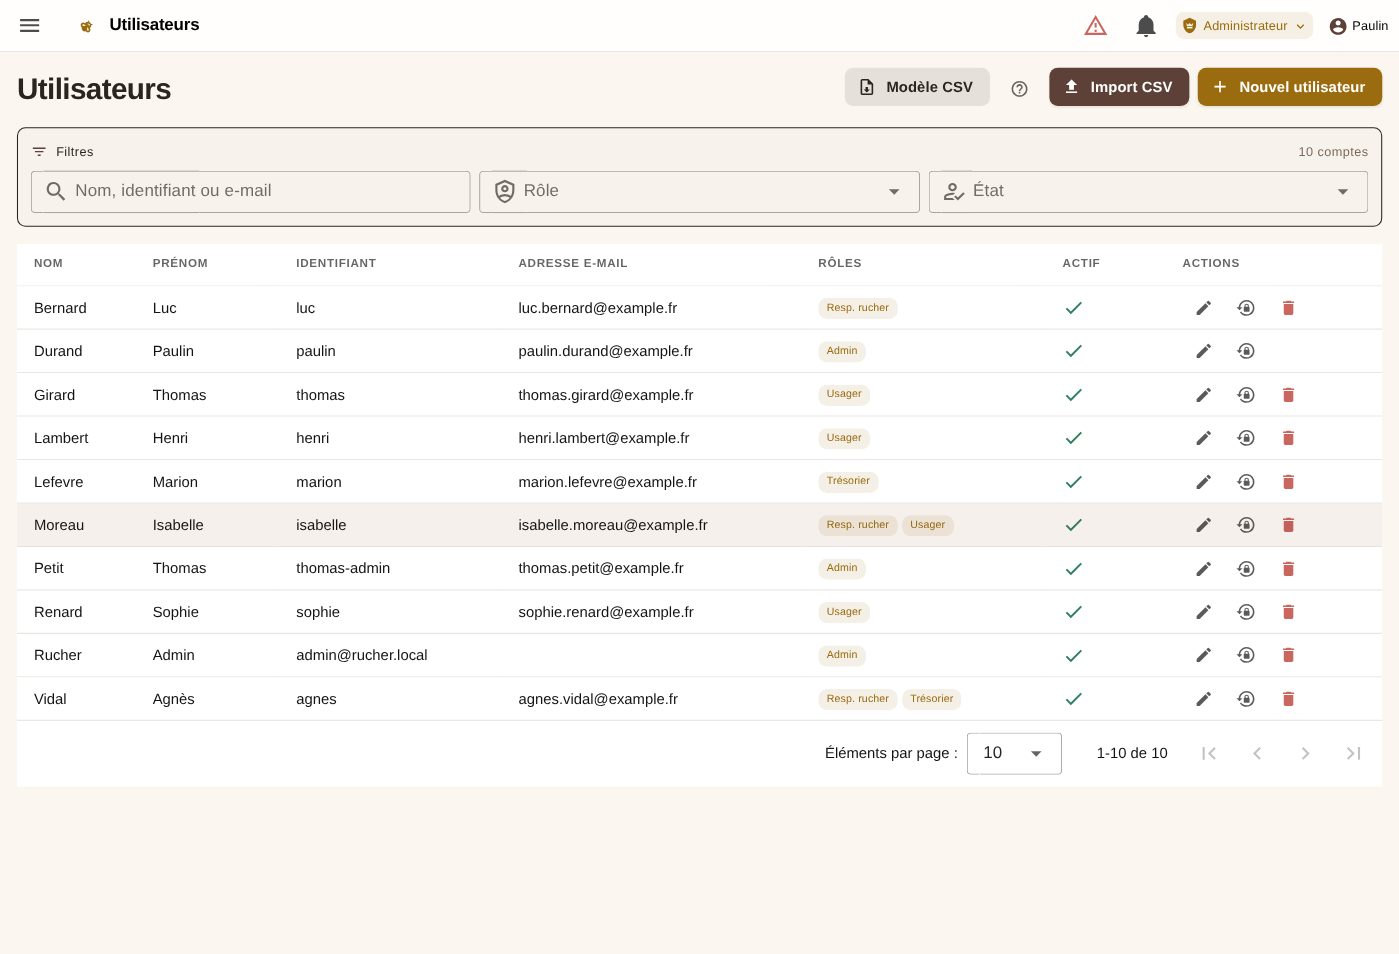
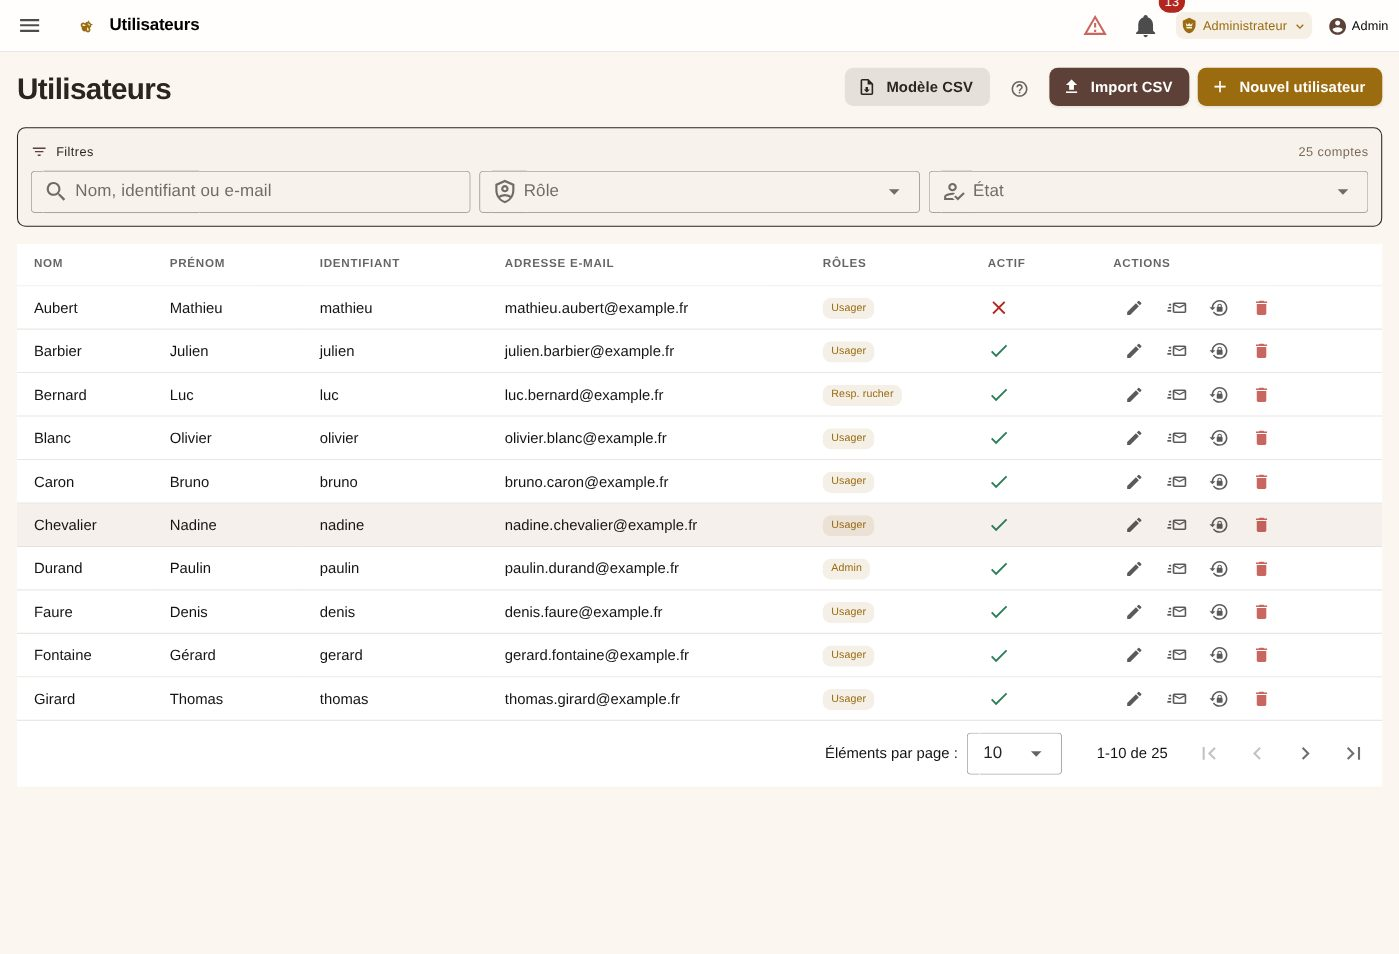
Envoyer ses identifiants et le lien de l'application à un adhérent
« Je n'arrive plus à me connecter » était traité en trois temps :
réinitialiser le mot de passe, le noter, puis rédiger un e-mail à la main
en retrouvant l'adresse du site. Un bouton « enveloppe » sur l'écran
Utilisateurs fait le tout d'un clic — les autres actions de la ligne
restent en place.

Le mot de passe est stocké sous forme d'empreinte Argon2 : celui que la
personne avait choisi est illisible, y compris pour un administrateur.
L'e-mail contient donc un nouveau mot de passe provisoire ; la boîte de
dialogue le dit avant l'envoi, et prévient que les appareils seront
déconnectés.

L'ordre des opérations compte : l'e-mail part d'abord, le mot de passe
n'est enregistré qu'ensuite. Si le serveur de messagerie refuse le
message, le compte garde son mot de passe actuel plutôt que de se
retrouver avec un mot de passe que personne n'a reçu.

Le bouton reste visible mais inactif quand le compte n'a pas d'adresse,
et dit pourquoi ; les réglages manquants (SMTP, adresse de
l'application) renvoient un message qui nomme l'écran à compléter.
Documenté au chapitre 6 du guide, avec les cas d'échec.

Claude-Session: https://claude.ai/code/session_01Cjb3j3YXGNGFMCv5gLZbMm

diff --git a/frontend/src/views/UsersView.vue b/frontend/src/views/UsersView.vue
@@ -66,6 +66,19 @@
       </template>
       <template v-slot:item.actions="{ item }">
         <v-btn icon size="small" variant="text" @click="editUser(item)"><v-icon>mdi-pencil</v-icon></v-btn>
+        <!-- Envoi des identifiants : sans adresse enregistrée, le bouton reste
+             visible mais inactif, et dit pourquoi — le masquer laisserait
+             chercher une fonction qui existe pourtant. -->
+        <v-btn
+          icon size="small" variant="text"
+          :disabled="!item.contact_email"
+          :title="item.contact_email
+            ? `Envoyer ses identifiants et le lien de l'application à ${item.contact_email}`
+            : 'Aucune adresse e-mail enregistrée sur ce compte'"
+          @click="askSendCredentials(item)"
+        >
+          <v-icon>mdi-email-fast-outline</v-icon>
+        </v-btn>
         <v-btn icon size="small" variant="text" @click="resetPw(item)"><v-icon>mdi-lock-reset</v-icon></v-btn>
         <v-btn v-if="item.id !== auth.user?.id" icon size="small" variant="text" color="error" @click="askDelete(item)"><v-icon>mdi-delete</v-icon></v-btn>
       </template>
@@ -176,6 +189,44 @@
       </v-card>
     </v-dialog>
 
+    <!-- Dialog : envoi des identifiants par e-mail -->
+    <v-dialog v-model="showCredDialog" max-width="500">
+      <v-card>
+        <v-card-title class="d-flex align-center">
+          <v-icon class="mr-2" color="primary">mdi-email-fast-outline</v-icon>
+          Envoyer les identifiants
+        </v-card-title>
+        <v-card-text>
+          <p class="mb-3">
+            <b>{{ credUser?.first_name }} {{ credUser?.last_name }}</b>
+            recevra à <b>{{ credUser?.contact_email }}</b> son nom d'utilisateur
+            (<code>{{ credUser?.email }}</code>), un mot de passe et le lien de
+            l'application.
+          </p>
+          <!-- Dire franchement que le mot de passe est remplacé : l'adhérent
+               sera déconnecté, ce n'est pas une surprise à découvrir après coup. -->
+          <v-alert type="info" variant="tonal" density="compact" class="mb-3">
+            Le mot de passe enregistré est chiffré : il est illisible, même pour
+            un administrateur. L'e-mail contiendra donc un <b>nouveau mot de
+            passe provisoire</b>, et l'ancien cessera de fonctionner
+            immédiatement.
+          </v-alert>
+          <p class="text-body-2 r-muted">
+            {{ credUser?.first_name }} sera déconnecté de ses appareils et
+            pourra choisir son propre mot de passe une fois connecté.
+          </p>
+          <v-alert v-if="credError" type="error" density="compact" class="mt-3">{{ credError }}</v-alert>
+        </v-card-text>
+        <v-card-actions>
+          <v-spacer />
+          <v-btn @click="showCredDialog = false">Annuler</v-btn>
+          <v-btn color="primary" :loading="sendingCred" @click="confirmSendCredentials">
+            Envoyer l'e-mail
+          </v-btn>
+        </v-card-actions>
+      </v-card>
+    </v-dialog>
+
     <!-- Dialog reset password -->
     <v-dialog v-model="showPwDialog" max-width="400">
       <v-card>
@@ -211,6 +262,34 @@ const emailError = ref('')
 watch(() => form.value.contact_email, () => { emailError.value = '' })
 const csvInput = ref(null)
 const csvResult = ref(null)
+
+// Envoi des identifiants par e-mail
+const showCredDialog = ref(false)
+const credUser = ref(null)
+const credError = ref('')
+const sendingCred = ref(false)
+
+function askSendCredentials(u) {
+  credUser.value = u
+  credError.value = ''
+  showCredDialog.value = true
+}
+
+async function confirmSendCredentials() {
+  sendingCred.value = true
+  credError.value = ''
+  try {
+    const { data } = await api.post(`/users/${credUser.value.id}/send-credentials`)
+    showCredDialog.value = false
+    toastSuccess(data.detail || `Identifiants envoyés à ${credUser.value.contact_email}`)
+  } catch (e) {
+    // Le message reste dans la boîte de dialogue : il explique quoi corriger
+    // (adresse manquante, SMTP non configuré) sans la refermer.
+    credError.value = apiError(e, "Envoi impossible")
+  } finally {
+    sendingCred.value = false
+  }
+}
 
 const showPwDialog = ref(false)
 const pwUser = ref(null)

diff --git a/frontend/src/views/docs/GuideAdminView.vue b/frontend/src/views/docs/GuideAdminView.vue
@@ -25,7 +25,8 @@ const sections = [
       { img: 'g-utilisateurs-boutons.jpg', cap: "Les trois boutons d'action (agrandis)." },
       { table: { head: ['Icône', 'Action'], rows: [
         ['✏ <b>crayon</b>', "Modifier la fiche : nom, e-mail, téléphone, rôles, état actif."],
-        ['🔑 <b>cadenas</b>', "Définir un nouveau mot de passe pour cette personne."],
+        ['✉ <b>enveloppe</b>', "Envoyer à la personne ses identifiants et le lien de l'application (section suivante)."],
+        ['🔑 <b>cadenas</b>', "Définir soi-même un nouveau mot de passe, à transmettre de vive voix."],
         ['🗑 <b>corbeille</b>', "Supprimer le compte — ou le désactiver, voir plus bas."],
       ] } },
     ],
@@ -48,6 +49,35 @@ const sections = [
         ['<b>Actif</b>', "Décoché, le compte existe mais ne peut plus se connecter."],
       ] } },
       { warn: "<b>Nom d'utilisateur ≠ adresse e-mail.</b> C'est la confusion la plus fréquente : l'identifiant sert à se connecter, l'adresse à recevoir les messages." },
+    ],
+  },
+  {
+    id: 'envoyer', t: 'Envoyer ses identifiants à un adhérent',
+    blocks: [
+      { p: "« Je n'arrive plus à me connecter » est l'appel le plus fréquent. Ce bouton y répond en une manipulation : la personne reçoit par e-mail son nom d'utilisateur, un mot de passe et le <b>lien de l'application</b>, sans que vous ayez à rédiger quoi que ce soit." },
+      { steps: [
+        "Sur l'écran <b>Utilisateurs</b>, retrouvez la personne (la barre de filtres aide : tapez son nom).",
+        "Cliquez sur l'icône <b>enveloppe</b> ✉ en bout de ligne.",
+        "Relisez le récapitulatif : destinataire, identifiant, ce qui va changer.",
+        "Cliquez sur <b>Envoyer l'e-mail</b>.",
+      ] },
+      { img: 'g-envoi-identifiants.jpg', cap: "La confirmation avant envoi." },
+      { warn: "Le mot de passe enregistré est chiffré : <b>personne ne peut le relire</b>, pas même un administrateur. L'e-mail contient donc un <b>nouveau mot de passe provisoire</b> ; l'ancien cesse aussitôt de fonctionner et la personne est déconnectée de ses appareils. C'est sans gravité — elle se reconnecte avec le mot de passe reçu, puis choisit le sien." },
+      { h3: 'Ce que reçoit la personne' },
+      { ul: [
+        "Son <b>nom d'utilisateur</b> et son <b>mot de passe</b>, présentés côte à côte.",
+        "Un bouton <b>Ouvrir l'application</b> qui mène directement à l'écran de connexion.",
+        "La marche à suivre pour <b>choisir son propre mot de passe</b> une fois connectée.",
+        "Un rappel qu'elle peut installer l'application sur l'écran d'accueil de son téléphone.",
+      ] },
+      { h3: "Si le bouton est grisé" },
+      { table: { head: ['Situation', 'Ce qu\'il faut faire'], rows: [
+        ["Le bouton est <b>inactif</b>", "Le compte n'a pas d'adresse e-mail. Ouvrez la fiche avec le <b>crayon</b>, renseignez l'<b>adresse e-mail</b>, enregistrez : le bouton s'active."],
+        ["<i>L'envoi d'e-mails n'est pas configuré</i>", "Renseignez le serveur SMTP dans <b>Réglages → Configuration</b> (section plus bas)."],
+        ["<i>L'adresse de l'application n'est pas renseignée</i>", "Complétez <b>Adresse de l'application</b> dans <b>Réglages → Configuration</b> : sans elle, l'e-mail ne pourrait pas contenir de lien."],
+        ["<i>L'e-mail n'a pas pu être envoyé</i>", "Le serveur de messagerie a refusé le message. <b>Le mot de passe du compte n'a pas été modifié</b> : corrigez le réglage SMTP puis réessayez."],
+      ] } },
+      { tip: "Vous préférez transmettre le mot de passe de vive voix ? Le bouton <b>cadenas</b> 🔑 reste là pour cela : il permet de choisir le mot de passe vous-même, sans envoyer d'e-mail." },
     ],
   },
   {

diff --git a/backend/app/utils/credentials_mail.py b/backend/app/utils/credentials_mail.py
@@ -1,0 +1,68 @@
+"""E-mail d'envoi des identifiants à un adhérent.
+
+Le mot de passe stocké est une empreinte Argon2 : il est **impossible** de
+relire celui que la personne avait choisi. Envoyer « son » mot de passe veut
+donc nécessairement dire en tirer un nouveau et le lui transmettre — c'est ce
+que fait cet e-mail, avec le lien de l'application pour qu'elle n'ait rien à
+chercher.
+
+Le message reste volontairement court : un identifiant, un mot de passe, un
+bouton. C'est ce qu'on relit sur un téléphone, debout, entre deux ruches.
+"""
+
+from app.models.user import User
+
+
+def build_email(user: User, password: str, app_url: str) -> tuple[str, str, str]:
+    """(sujet, html, texte) du message contenant les identifiants."""
+    who = (user.first_name or "").strip() or user.email
+    link = (app_url or "").rstrip("/")
+    connexion = f"{link}/login"
+
+    subject = "Rucher Manager — vos identifiants de connexion"
+    html = (
+        '<div style="font-family:-apple-system,Segoe UI,Roboto,Arial,sans-serif;'
+        'max-width:520px;margin:0 auto;padding:24px;color:#2B2520;">'
+        '<div style="text-align:center;font-size:30px;">🐝</div>'
+        f'<h2 style="text-align:center;font-size:19px;">Bonjour {who},</h2>'
+        '<p style="line-height:1.6;">Voici vos identifiants pour vous connecter '
+        'à Rucher Manager, l\'application de suivi des ruches de l\'association.</p>'
+        '<table style="width:100%;border-collapse:collapse;margin:20px 0;'
+        'background:#FBF7F0;border-radius:10px;">'
+        '<tr><td style="padding:12px 16px;color:#6B5F52;font-size:14px;">'
+        'Nom d\'utilisateur</td>'
+        f'<td style="padding:12px 16px;font-weight:700;font-family:monospace;">'
+        f'{user.email}</td></tr>'
+        '<tr><td style="padding:12px 16px;color:#6B5F52;font-size:14px;">'
+        'Mot de passe</td>'
+        f'<td style="padding:12px 16px;font-weight:700;font-family:monospace;">'
+        f'{password}</td></tr></table>'
+        '<p style="text-align:center;margin:28px 0;">'
+        f'<a href="{connexion}" style="background:#B8860B;color:#fff;'
+        'text-decoration:none;padding:13px 26px;border-radius:8px;'
+        'display:inline-block;font-weight:600;">Ouvrir l\'application</a></p>'
+        '<p style="line-height:1.6;font-size:14px;color:#4E443A;">'
+        'Ce mot de passe est <b>provisoire</b> : une fois connecté, cliquez sur '
+        'votre prénom en haut à droite, puis sur « Changer mon mot de passe ».</p>'
+        '<p style="line-height:1.6;font-size:14px;color:#4E443A;">'
+        'Sur téléphone, vous pouvez installer l\'application sur votre écran '
+        'd\'accueil : elle s\'ouvre alors en plein écran et fonctionne même sans '
+        'réseau au rucher.</p>'
+        '<p style="font-size:12px;color:#8A7F72;word-break:break-all;">'
+        f'Si le bouton ne fonctionne pas, copiez cette adresse : {connexion}</p>'
+        '</div>'
+    )
+    text = (
+        f"Bonjour {who},\n\n"
+        "Voici vos identifiants pour vous connecter à Rucher Manager,\n"
+        "l'application de suivi des ruches de l'association.\n\n"
+        f"  Nom d'utilisateur : {user.email}\n"
+        f"  Mot de passe      : {password}\n\n"
+        f"Adresse de l'application : {connexion}\n\n"
+        "Ce mot de passe est provisoire : une fois connecté, cliquez sur votre\n"
+        "prénom en haut à droite, puis sur « Changer mon mot de passe ».\n\n"
+        "Sur téléphone, vous pouvez installer l'application sur votre écran\n"
+        "d'accueil : elle s'ouvre alors en plein écran et fonctionne même sans\n"
+        "réseau au rucher.\n"
+    )
+    return subject, html, text

diff --git a/backend/app/routers/users.py b/backend/app/routers/users.py
@@ -27,7 +27,7 @@ from app.utils.auth import (
     get_selectable_roles,
 )
 from app.utils.audit import log_action
-from app.utils import mailer, password_reset as pwreset
+from app.utils import mailer, password_reset as pwreset, credentials_mail
 from app.routers.settings import load_mail
 
 router = APIRouter(prefix="/api/users", tags=["users"])
@@ -358,6 +358,75 @@ async def reset_password(
     user.token_version = (user.token_version or 0) + 1
     await log_action(db, current.id, "password_reset", "user", user.id)
     return {"detail": "Mot de passe modifié — le compte a été déconnecté de tous ses appareils"}
+
+
+@router.post("/{user_id}/send-credentials")
+async def send_credentials(
+    user_id: int,
+    db: AsyncSession = Depends(get_db),
+    current: User = Depends(require_roles(RoleEnum.ADMIN)),
+):
+    """Envoie à l'adhérent ses identifiants et le lien de l'application.
+
+    Le mot de passe en base est une empreinte Argon2 : celui que la personne
+    avait choisi est **illisible**, y compris pour un administrateur. « Lui
+    envoyer son mot de passe » veut donc dire lui en attribuer un nouveau et
+    le lui transmettre — ce que fait cette route, en une seule manipulation
+    plutôt que « réinitialiser », noter, puis rédiger un e-mail à la main.
+
+    L'ordre compte : on envoie d'abord, on enregistre ensuite. Si le serveur
+    de messagerie refuse le message, le compte garde son mot de passe actuel
+    au lieu de se retrouver avec un mot de passe que personne n'a reçu.
+    """
+    result = await db.execute(select(User).where(User.id == user_id))
+    user = result.scalar_one_or_none()
+    if not user:
+        raise HTTPException(404, "Utilisateur introuvable")
+    if not user.contact_email:
+        raise HTTPException(
+            400,
+            f"Aucune adresse e-mail enregistrée pour {user.first_name or user.email} : "
+            "renseignez-la d'abord avec le crayon, puis réessayez.",
+        )
+
+    cfg = await load_mail(db)
+    if not mailer.mail_enabled(cfg):
+        raise HTTPException(
+            503,
+            "L'envoi d'e-mails n'est pas configuré : renseignez le serveur SMTP "
+            "dans Réglages → Configuration.",
+        )
+
+    app_url = (cfg.get("app_base_url") or "").strip()
+    if not app_url:
+        raise HTTPException(
+            400,
+            "L'adresse de l'application n'est pas renseignée : sans elle, "
+            "l'e-mail ne pourrait pas contenir de lien. Complétez « Adresse de "
+            "l'application » dans Réglages → Configuration.",
+        )
+
+    provisoire = secrets.token_urlsafe(9)
+    subject, html, text = credentials_mail.build_email(user, provisoire, app_url)
+    try:
+        await mailer.send_mail(subject, html, text, [user.contact_email], cfg)
+    except Exception as e:
+        print(f"❌ Identifiants : envoi impossible à {user.contact_email} — {e}")
+        raise HTTPException(
+            502,
+            f"L'e-mail n'a pas pu être envoyé à {user.contact_email}. "
+            "Le mot de passe du compte n'a pas été modifié.",
+        )
+
+    user.hashed_password = hash_password(provisoire)
+    # Le mot de passe change : les jetons émis auparavant sont périmés.
+    user.token_version = (user.token_version or 0) + 1
+    await log_action(db, current.id, "send_credentials", "user", user.id)
+
+    return {
+        "detail": f"Identifiants envoyés à {user.contact_email}",
+        "sent_to": user.contact_email,
+    }
 
 
 # Ce qu'un compte laisse derrière lui. Ces enregistrements décrivent la vie de

diff --git a/backend/app/releases.py b/backend/app/releases.py
@@ -10,6 +10,16 @@ Convention : la version la plus récente en tête.
 
 RELEASES = [
     {
+        "version": "1.8.1",
+        "date": "2026-09-14",
+        "title": "Envoyer ses identifiants à un adhérent",
+        "highlights": [
+            "Un bouton « enveloppe » sur l'écran Utilisateurs envoie à un adhérent son nom d'utilisateur, un mot de passe et le lien de l'application, en une seule manipulation.",
+            "Le mot de passe enregistré étant chiffré, l'e-mail contient un nouveau mot de passe provisoire : l'ancien cesse de fonctionner et la personne choisit le sien une fois connectée.",
+            "Si le serveur de messagerie refuse le message, le compte garde son mot de passe : rien ne change tant que l'e-mail n'est pas parti.",
+        ],
+    },
+    {
         "version": "1.8.0",
         "date": "2026-09-13",
         "title": "Documentation refaite en six chapitres",
